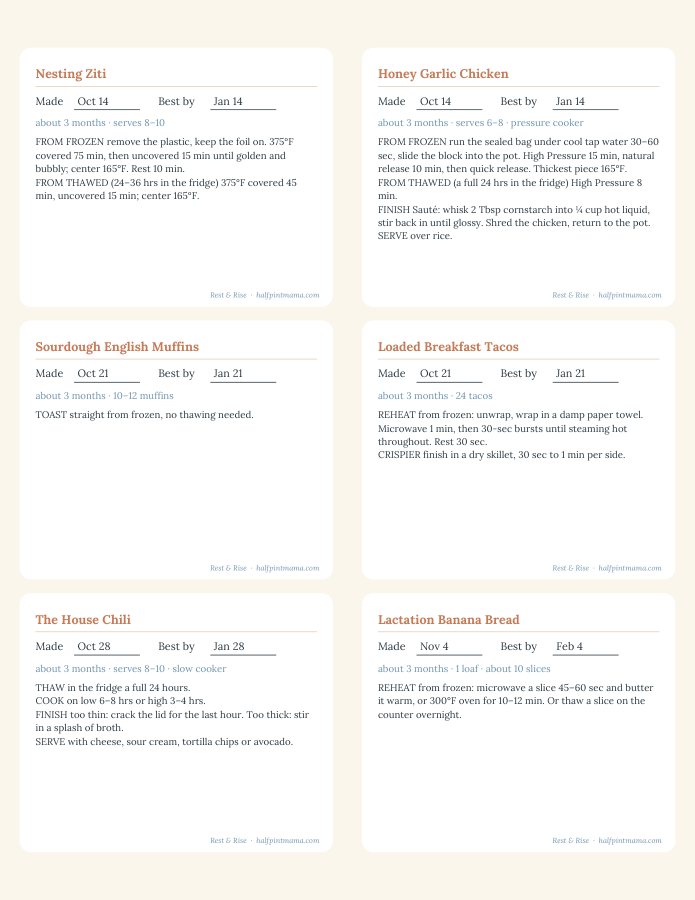
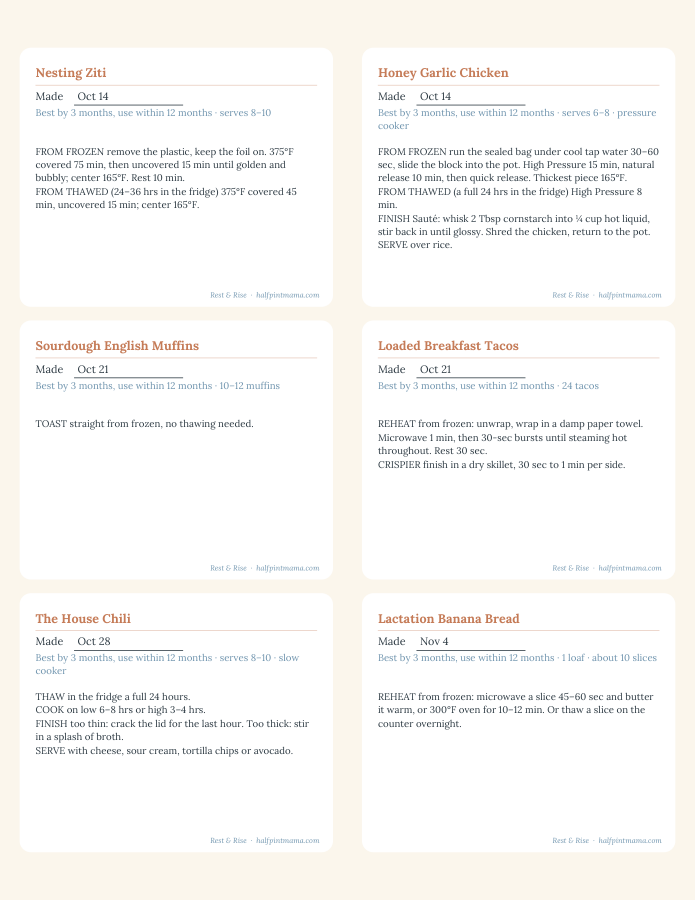
Labels: best-by moves into the auto-filled line, guide copy and note box fixes
Every label now prints 'Best by 3 months, use within 12 months' (Little
Sealed Sandwiches: 1-2 months) with its yield and cooker, so there is no
best-by box to fill. The guide's on-the-bag note sends readers to the book
for detail as well as for thawed and leftovers, and the personal-use box
has room to breathe.

diff --git a/src/lib/shop/labels-pdf.ts b/src/lib/shop/labels-pdf.ts
@@ -2,8 +2,8 @@
 //
 // Page 1 is the guide. Then FILLABLE_PAGES of label sheets and one page of
 // hand-write labels. Each label carries a recipe dropdown (the book's 35, or
-// type anything), Made and Best-by dates, a keeps/yield line and the freezer
-// directions. Picking a book recipe fills the keeps line and the directions
+// type anything), a Made-on date, a best-by/yield line and the freezer
+// directions. Picking a book recipe fills the best-by line and the directions
 // automatically (document JavaScript, honoured by Acrobat Reader, Chrome, Edge
 // and Firefox; Apple Preview shows the fields but does not run it, so the text
 // can also be typed). The buyer's email is stamped on every page and in the
@@ -190,36 +190,35 @@ function labelGeometry(slot: Slot) {
   const x = card.x + pad;
   const w = card.w - pad * 2;
   const top = card.y + card.h;
-  const title = { x, y: top - pad - 18, width: w, height: 18 };
-  const rowY = title.y - 21;
+  const title = { x, y: top - pad - 17, width: w, height: 17 };
+  const rowY = title.y - 18;
   const madeLabelW = 34;
-  const bestLabelW = 46;
-  const dateW = 58;
-  const made = { x: x + madeLabelW, y: rowY, width: dateW, height: 14 };
-  const best = { x: made.x + dateW + 16 + bestLabelW, y: rowY, width: dateW, height: 14 };
-  const meta = { x, y: rowY - 18, width: w, height: 13 };
-  const dirTop = meta.y - 6;
-  const dir = { x, y: card.y + 22, width: w, height: dirTop - (card.y + 22) };
-  return { card, x, w, top, title, made, best, meta, dir, madeLabelW, bestLabelW };
+  const made = { x: x + madeLabelW, y: rowY, width: 96, height: 14 };
+  // Two lines: "Best by 3 months, use within 12 months · serves 6–8 · slow cooker".
+  // Viewers set multiline text at about 1.5x the font size, so 30pt holds two
+  // lines of 8.5pt with their padding.
+  const meta = { x, y: rowY - 32, width: w, height: 30 };
+  const dirTop = meta.y - 4;
+  const dir = { x, y: card.y + 18, width: w, height: dirTop - (card.y + 18) };
+  return { card, x, w, top, title, made, meta, dir, madeLabelW };
 }
 
 function drawLabelArt(page: PDFPage, slot: Slot, fonts: Fonts, handwrite: boolean) {
   const g = labelGeometry(slot);
   roundedRect(page, g.card.x, g.card.y, g.card.w, g.card.h, 10, WHITE);
 
-  // Row of Made / Best by, in the book's body face.
+  // The Made-on line, in the book's body face. (Best-by is printed by the
+  // auto-fill, not written in.)
   page.drawText("Made", { x: g.x, y: g.made.y + 3, size: 9.5, font: fonts.body, color: INK });
-  page.drawText("Best by", { x: g.best.x - g.bestLabelW, y: g.best.y + 3, size: 9.5, font: fonts.body, color: INK });
   // Rules sit just BELOW each field box, where the field's white fill cannot
   // cover them: a writing line on the hand-write sheet, a "type here" cue on
   // the fillable ones.
-  for (const box of [g.made, g.best]) {
-    page.drawLine({ start: { x: box.x, y: box.y - 1.5 }, end: { x: box.x + box.width, y: box.y - 1.5 }, thickness: 0.8, color: INK, opacity: 0.85 });
-  }
+  page.drawLine({ start: { x: g.made.x, y: g.made.y - 1.5 }, end: { x: g.made.x + g.made.width, y: g.made.y - 1.5 }, thickness: 0.8, color: INK, opacity: 0.85 });
   page.drawLine({ start: { x: g.x, y: g.title.y - 2 }, end: { x: g.x + g.w, y: g.title.y - 2 }, thickness: 0.6, color: TERRACOTTA, opacity: handwrite ? 0.7 : 0.45 });
 
   if (handwrite) {
     // Writing guides where the fields would be.
+    page.drawLine({ start: { x: g.x, y: g.meta.y + 11 }, end: { x: g.x + g.w, y: g.meta.y + 11 }, thickness: 0.5, color: STEEL, opacity: 0.7, dashArray: [0.8, 1.6] });
     page.drawLine({ start: { x: g.x, y: g.meta.y - 1 }, end: { x: g.x + g.w, y: g.meta.y - 1 }, thickness: 0.5, color: STEEL, opacity: 0.7, dashArray: [0.8, 1.6] });
     const lines = Math.floor(g.dir.height / 15);
     for (let i = 1; i <= lines; i++) {
@@ -235,12 +234,11 @@ function drawLabelArt(page: PDFPage, slot: Slot, fonts: Fonts, handwrite: boolea
 
 // Renders a recipe onto a hand-write label as static text (used only for the
 // preview image, never in a buyer's file).
-export function previewLabel(page: PDFPage, slot: Slot, fonts: Fonts, name: string, made: string, best: string, meta: string, directions: string) {
+export function previewLabel(page: PDFPage, slot: Slot, fonts: Fonts, name: string, made: string, meta: string, directions: string) {
   const g = labelGeometry(slot);
   page.drawText(name, { x: g.x, y: g.title.y + 5, size: 11, font: fonts.bold, color: TERRACOTTA });
   page.drawText(made, { x: g.made.x + 3, y: g.made.y + 3, size: 9.5, font: fonts.body, color: INK });
-  page.drawText(best, { x: g.best.x + 3, y: g.best.y + 3, size: 9.5, font: fonts.body, color: INK });
-  page.drawText(meta, { x: g.x, y: g.meta.y + 2, size: 8.5, font: fonts.body, color: STEEL });
+  paragraph(page, meta, g.x, g.meta.y + g.meta.height - 9, g.w, 8.5, fonts.body, STEEL, 11.5);
   paragraph(page, directions, g.x, g.dir.y + g.dir.height - 9, g.w, 8.5, fonts.body, INK, 11.8);
 }
 
@@ -298,9 +296,9 @@ function drawGuide(page: PDFPage, fonts: Fonts, email: string) {
   ]);
 
   section("Filling them in", [
-    `Open this file on a computer in Adobe Acrobat Reader (free), Chrome, Edge or Firefox. On each label, click the recipe box and pick a recipe from the book, or type your own. When you pick a book recipe, the keeps-for line and the freezer directions fill themselves in. Every box stays editable, so shorten or add to anything you like.`,
+    `Open this file on a computer in Adobe Acrobat Reader (free), Chrome, Edge or Firefox. On each label, click the recipe box and pick a recipe from the book, or type your own. When you pick a book recipe, the best-by line and the freezer directions fill themselves in. Every box stays editable, so shorten or add to anything you like.`,
     `Apple Preview shows the boxes but will not fill them in for you; type the directions from the book instead, or use one of the readers above.`,
-    `Write the date you made the meal, then add about three months for the best-by date. Most meals are best within three months and safe to use within twelve. Save a copy when you are done so your sheet is there next time.`,
+    `Write the date you made the meal. The best-by line fills itself in: most meals are best by three months and safe to use within twelve. Save a copy when you are done so your sheet is there next time.`,
   ]);
 
   section("Before you print", [
@@ -310,15 +308,15 @@ function drawGuide(page: PDFPage, fonts: Fonts, email: string) {
   ]);
 
   section("On the bag", [
-    `Stick the label on while the bag or foil is dry and flat, before it goes in the freezer. The directions are the book's from-frozen method; for cooking from thawed and for leftovers, see the recipe page.`,
+    `Stick the label on while the bag or foil is dry and flat, before it goes in the freezer. The directions are the book's from-frozen method, kept short to fit the label. For more detailed instructions, and for cooking from thawed and for leftovers, see the recipe page in Rest & Rise.`,
   ]);
 
   // Tinted note box, the book's Nurse's Note treatment.
-  const noteH = 46;
-  y -= 2;
-  roundedRect(page, L, y - noteH + 12, W, noteH, 8, TINT);
-  tracked(page, "FOR YOUR KITCHEN ONLY", L + 14, y - 4, 8.5, fonts.caps, NAVY, 1.3);
-  paragraph(page, `These labels are made for ${email} and are for personal use. Please do not resell or share the file. Thank you for keeping this little shop running.`, L + 14, y - 19, W - 28, 9.5, fonts.body, INK, 13);
+  const noteH = 66;
+  y -= 4;
+  roundedRect(page, L, y - noteH + 14, W, noteH, 8, TINT);
+  tracked(page, "FOR YOUR KITCHEN ONLY", L + 20, y - 6, 8.5, fonts.caps, NAVY, 1.3);
+  paragraph(page, `These labels are made for ${email} and are for personal use. Please do not resell or share the file. Thank you for keeping this little shop running.`, L + 20, y - 25, W - 40, 9.5, fonts.body, INK, 14.5);
 }
 
 // ---- document JavaScript -----------------------------------------------------
@@ -407,15 +405,9 @@ export async function buildLabelsPdf({ email, createdAt, prefill }: LabelsPdfOpt
       if (pre) made.setText("Oct 14");
       made.updateAppearances(fonts.body);
 
-      const best = form.createTextField(`best_${n}`);
-      best.setMaxLength(16);
-      best.addToPage(page, { ...g.best, borderWidth: 0, backgroundColor: WHITE, textColor: INK, font: fonts.body });
-      best.setFontSize(9.5);
-      if (pre) best.setText("Jan 14");
-      best.updateAppearances(fonts.body);
-
       const meta = form.createTextField(`meta_${n}`);
-      meta.setMaxLength(60);
+      meta.enableMultiline();
+      meta.setMaxLength(120);
       meta.addToPage(page, { ...g.meta, borderWidth: 0, backgroundColor: WHITE, textColor: STEEL, font: fonts.body });
       meta.setFontSize(8.5);
       if (pre) meta.setText(recipeMeta(pre));

diff --git a/src/lib/shop/recipes.ts b/src/lib/shop/recipes.ts
@@ -21,14 +21,15 @@ export interface Recipe {
   // Shown after the name on the label, e.g. "slow cooker". Book wording, not
   // brand names.
   cooker?: "slow cooker" | "pressure cooker";
-  // "about 3 months" for almost everything: the book's "best within 3 months,
-  // use within 12". Little Sealed Sandwiches are the one exception.
+  // "Best by 3 months, use within 12 months" for everything but Little Sealed
+  // Sandwiches (1–2 months for the bread's sake), straight from the book's
+  // storage blocks. Printed on the label, so there is no best-by box to fill.
   keeps: string;
   yield: string;
   directions: string;
 }
 
-const KEEPS = "about 3 months";
+const KEEPS = "Best by 3 months, use within 12 months";
 
 export const RECIPES: readonly Recipe[] = [
   {
@@ -284,7 +285,7 @@ export const RECIPES: readonly Recipe[] = [
   {
     name: "Little Sealed Sandwiches",
     page: 114,
-    keeps: "best within 1–2 months",
+    keeps: "Best by 1–2 months, use within 12 months",
     yield: "12 sandwiches",
     directions:
       "LUNCHBOX pack frozen with an ice pack; thawed by lunch.\n" +
@@ -349,9 +350,9 @@ export const RECIPES: readonly Recipe[] = [
 // Names only, in book order: the dropdown's option list.
 export const BOOK_RECIPES: readonly string[] = RECIPES.map((r) => r.name);
 
-// What the label prints under the name: "about 3 months · serves 6–8 · slow
-// cooker". The cooker lives here rather than in the title so the longest
-// titles still fit the recipe box.
+// What the label prints under the name: "Best by 3 months, use within 12
+// months · serves 6–8 · slow cooker". The cooker lives here rather than in the
+// title so the longest titles still fit the recipe box.
 export function recipeMeta(r: Recipe): string {
   return [r.keeps, r.yield, r.cooker].filter(Boolean).join(" · ");
 }

diff --git a/src/app/(site)/shop/page.tsx b/src/app/(site)/shop/page.tsx
@@ -270,8 +270,8 @@ export default async function ShopPage() {
               </div>
               <p className="text-charcoal/80 text-sm mb-3">
                 A fillable PDF made for your freezer: pick a recipe from the book and the label fills
-                in its own keeps-for line and freezer directions, or type your own. Add the date you
-                made it and the best-by date, then print. Three sheets of fillable labels plus one to
+                in its own best-by line and freezer directions, or type your own. Add the date you
+                made it, then print. Three sheets of fillable labels plus one to
                 hand-write, six {LABEL_SHEET.size} labels per sheet, unlimited reprints.
               </p>
               <p className="text-charcoal/80 text-sm">
@@ -458,7 +458,7 @@ async function LabelsOffer() {
           </div>
           <p className="text-charcoal/80 text-sm mb-4">
             A fillable PDF: pick any recipe in the book from the dropdown or type your own, add
-            the dates, print. Picking a book recipe fills in its freezer directions for you. Three
+            the date, print. Picking a book recipe fills in its best-by line and freezer directions for you. Three
             sheets of fillable labels plus one to hand-write, and unlimited
             reprints, so you can make as many as your freezer needs.
           </p>

diff --git a/src/app/(site)/shop/labels/[token]/page.tsx b/src/app/(site)/shop/labels/[token]/page.tsx
@@ -136,9 +136,8 @@ export default async function LabelsDeliveryPage({ params }: { params: Promise<{
                   Apple Preview shows the boxes but will not fill them in for you.
                 </li>
                 <li>
-                  On each label, pick a recipe from the list and the keeps-for line and the freezer
-                  directions fill themselves in, or type your own. Add the date you made it and a
-                  best-by date about three months out. Page 1 is the guide, pages {LABEL_PAGE_RANGE} are
+                  On each label, pick a recipe from the list and the best-by line and the freezer
+                  directions fill themselves in, or type your own. Add the date you made it. Page 1 is the guide, pages {LABEL_PAGE_RANGE} are
                   labels, and the last page is blank for handwriting.
                 </li>
                 <li>
